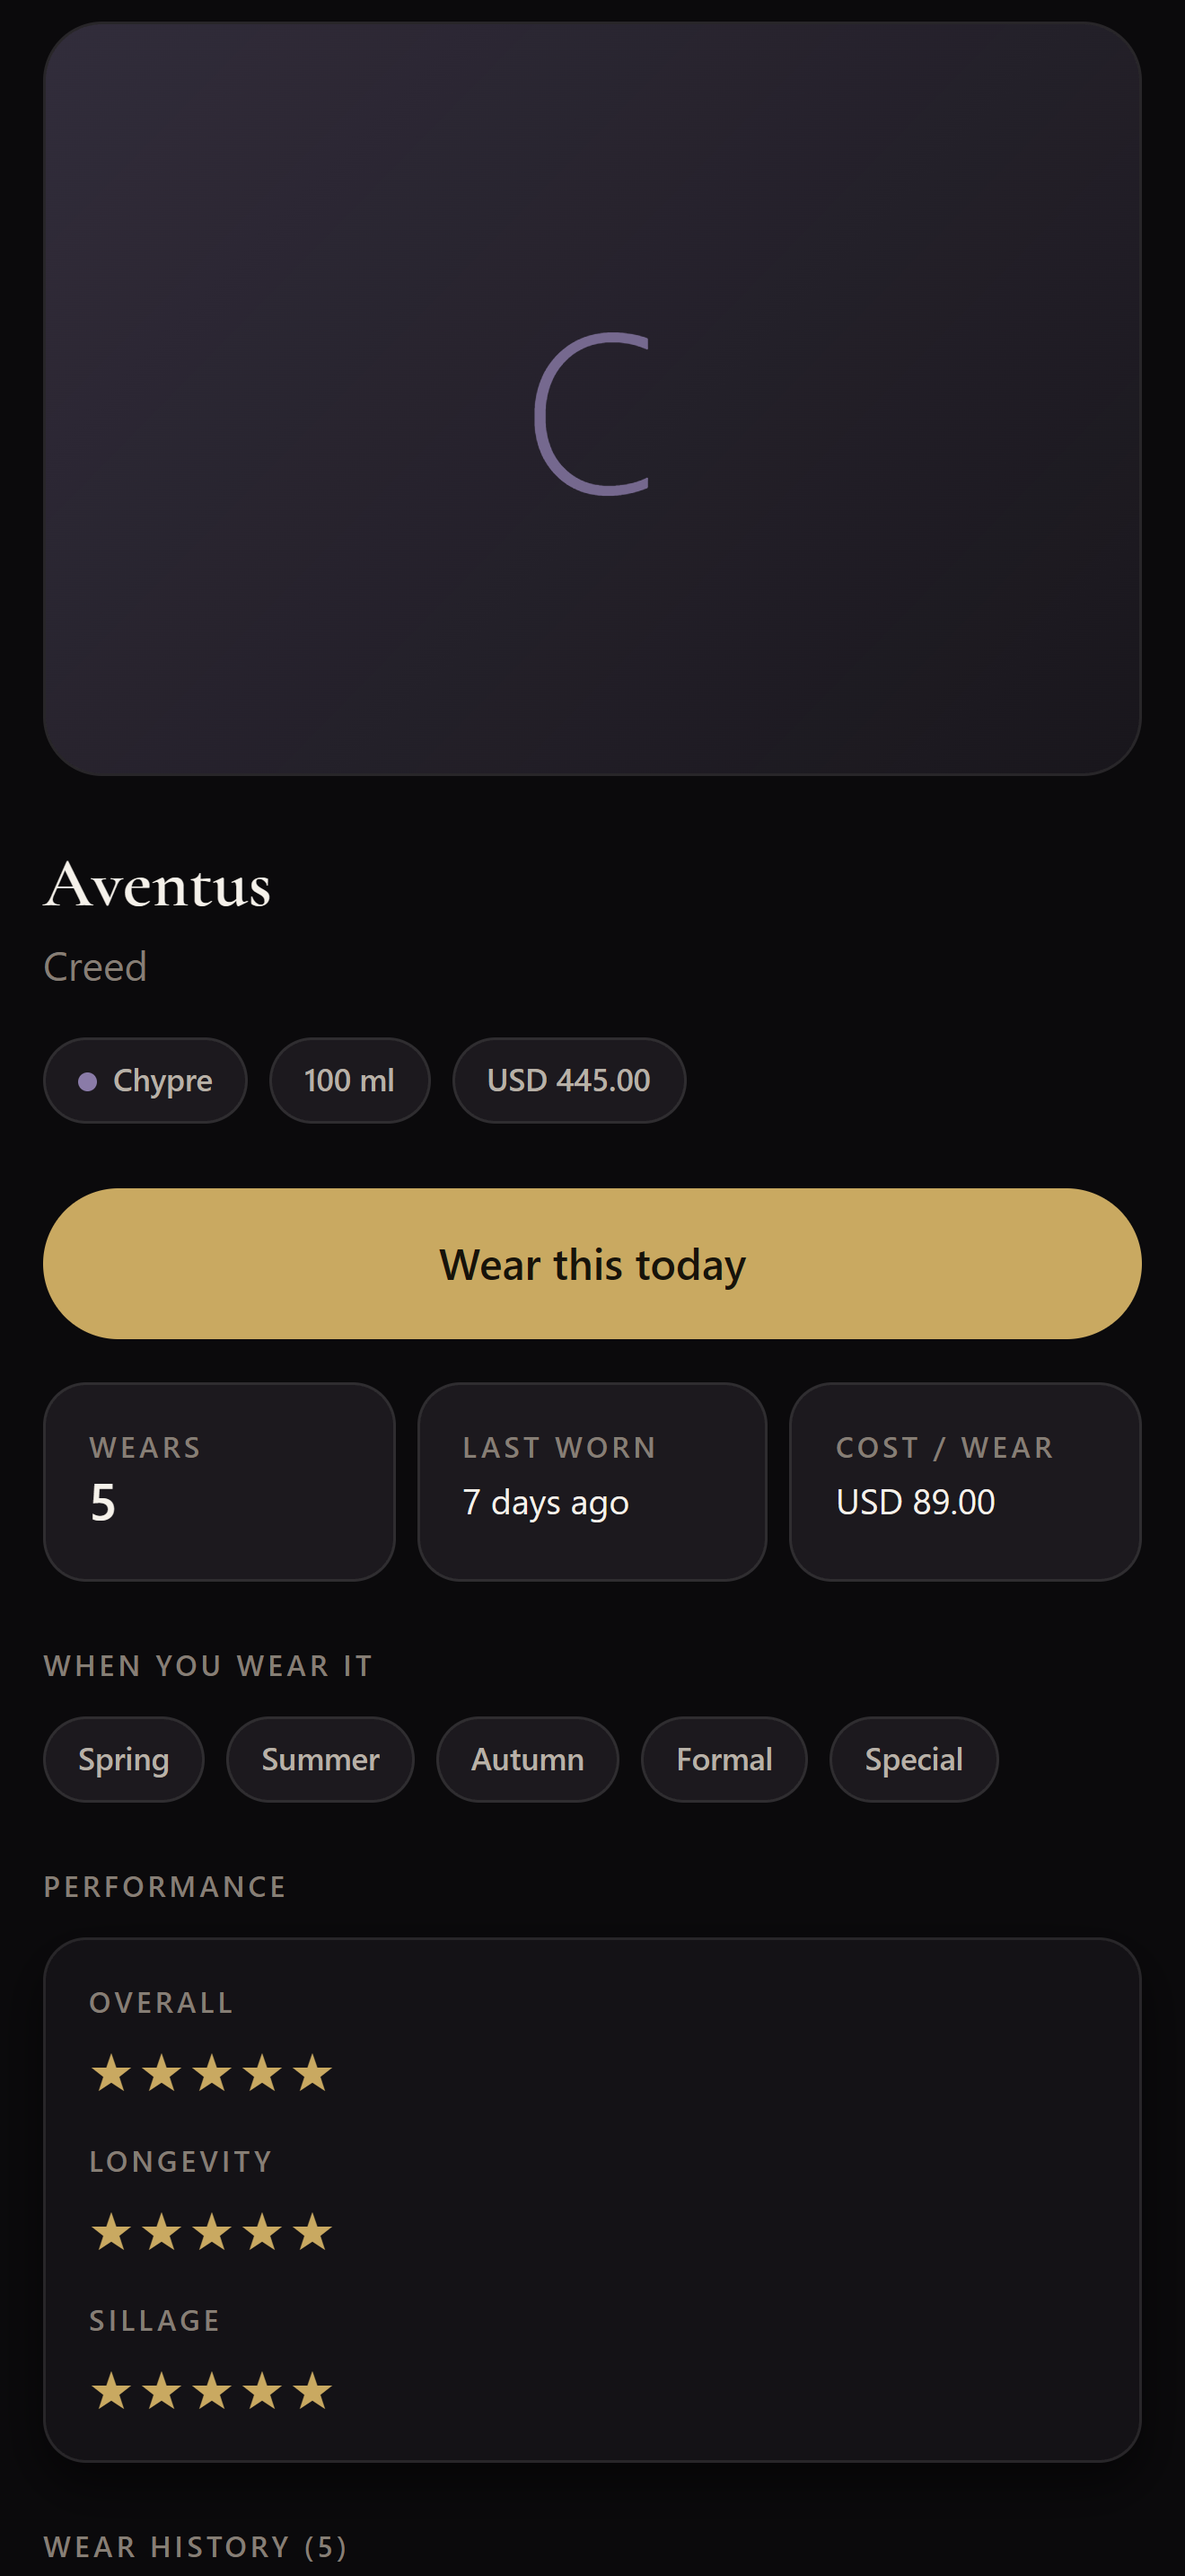
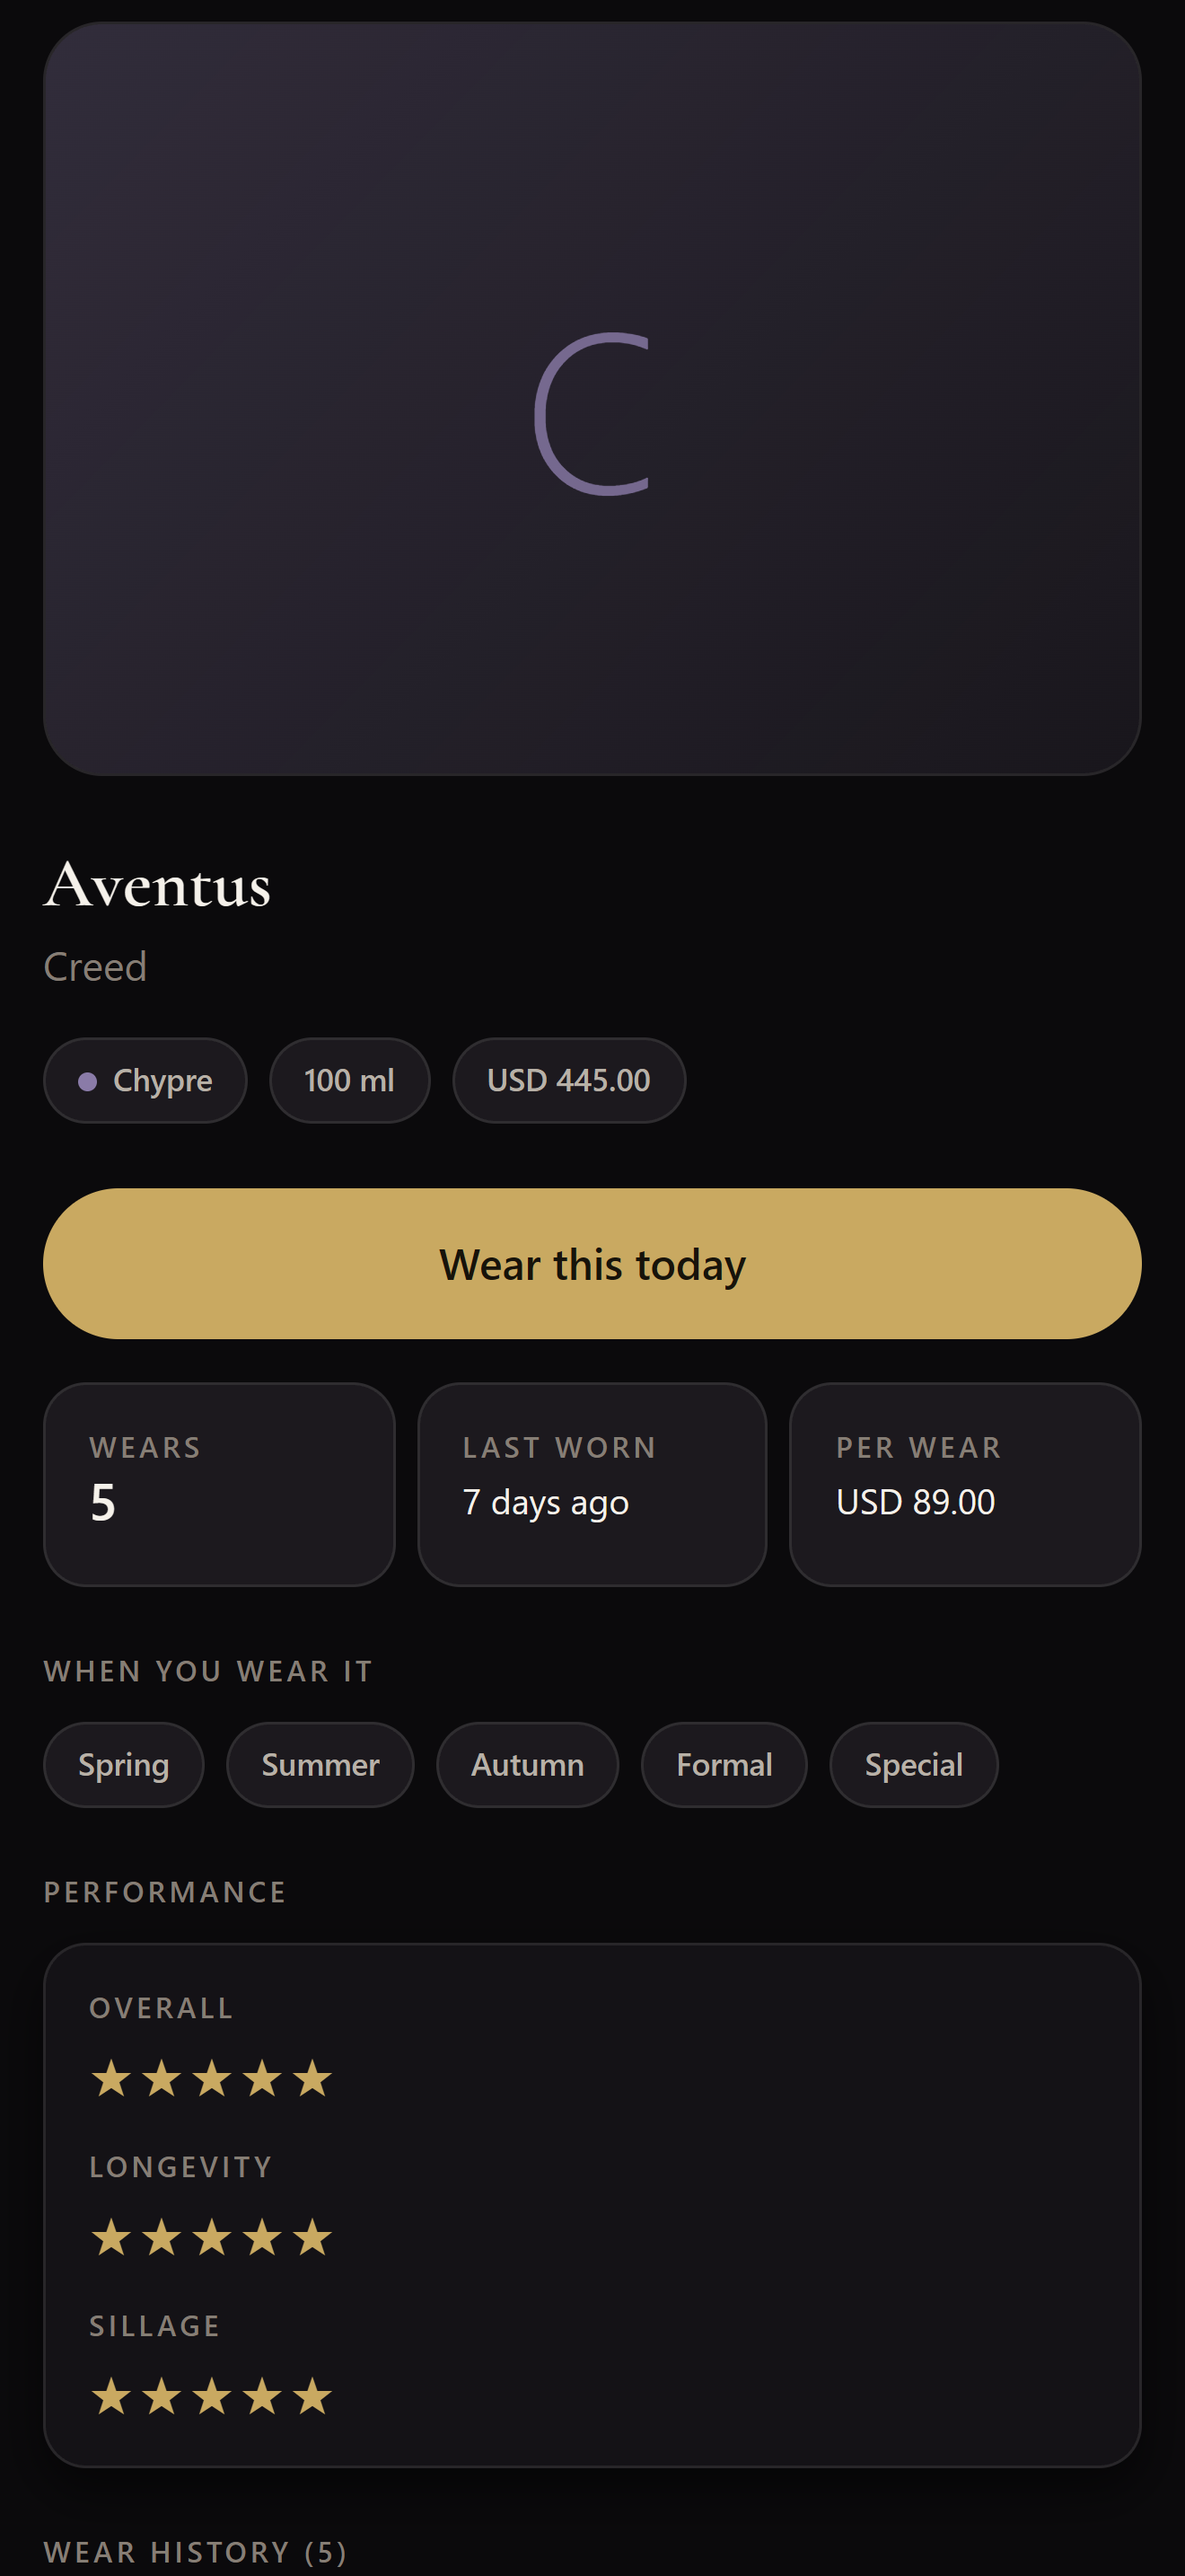
Scope RLS policies to the authenticated role; document accepted advisors
Policies were created without a TO clause, defaulting to `public` and so
including the `anon` role. That was already safe in practice — for `anon`,
auth.uid() is NULL, so the comparison denies the row — but relying on a
NULL comparison rather than an explicit grant is the wrong default. Named
the role on every policy across profiles, fragrances, sotd_entries,
settings, subscriptions and storage.objects.

Enabled HaveIBeenPwned leaked-password protection, which applies if a
user ever sets a password via the optional email upgrade.

The auth_allow_anonymous_sign_ins advisor still fires on every user
table, and correctly: an anonymously signed-in Supabase user holds the
`authenticated` role, so the warning describes the product working as
intended. The advisor suggests requiring is_anonymous = false, which
would lock every anonymous user out of their own collection and force an
email to use the app at all. Documented as accepted rather than silenced,
in store/security-checklist.md.

Re-verified: 18/18 RLS cross-user denial assertions still pass.

diff --git a/store/security-checklist.md b/store/security-checklist.md
@@ -20,8 +20,35 @@ Last run: 28 July 2026.
 | Client cannot self-grant premium | ✅ | `subscriptions` has a read policy and **no** write policy; B's insert rejected |
 | Billing ledger unreadable by clients | ✅ | RLS on, zero policies = deny-all |
 | Policies use `(select auth.uid())` | ✅ | Avoids per-row re-evaluation (`auth_rls_initplan` advisor) |
-| `SECURITY DEFINER` functions not publicly callable | ✅ | `EXECUTE` revoked from `public`/`anon`/`authenticated` on `handle_new_user` and `touch_updated_at`; advisor now clean |
-| Supabase security advisors clean | ✅ | Only one INFO: `billing_events` RLS-on-no-policy, which is the intended deny-all |
+| Policies scoped `TO authenticated` | ✅ | Explicit role grant rather than relying on `auth.uid()` being NULL for `anon` |
+| `SECURITY DEFINER` functions not publicly callable | ✅ | `EXECUTE` revoked from `public`/`anon`/`authenticated` on `handle_new_user` and `touch_updated_at`; advisor cleared |
+| Leaked-password protection (HaveIBeenPwned) | ✅ | Enabled; applies if a user ever sets a password on the optional email upgrade |
+
+### Advisor findings we accept, and why
+
+The Supabase security advisor is **not** silent, and this file will not pretend
+it is. Two findings remain, both deliberate:
+
+1. **`rls_enabled_no_policy` on `billing_events`** (INFO). RLS on with zero
+   policies is a deny-all in Postgres. Only the service-role webhook touches
+   this table. This is the intended posture, not an oversight.
+
+2. **`auth_allow_anonymous_sign_ins` on all six user tables** (WARN, ×7).
+   Flagged because anonymous users can reach their own rows — which is the
+   entire product. In Supabase an anonymously signed-in user holds the
+   **`authenticated`** role (with `is_anonymous: true` in the JWT), so this
+   warning persists even with policies scoped `TO authenticated`.
+
+   The advisor's suggested remediation is to add
+   `and (select auth.jwt() ->> 'is_anonymous')::boolean is false`, which would
+   lock every anonymous user out of their own collection and require an email to
+   use the app at all. That contradicts the anonymous-first requirement in the
+   brief, so we do not apply it.
+
+   **What actually protects the data is unchanged and proven:** each policy
+   still requires `auth.uid() = user_id`, so an anonymous user reaches their own
+   rows and nobody else's. `scripts/test-rls.js` demonstrates this with two real
+   anonymous users and 18 assertions.
 
 ## Storage
 

diff --git a/BUILD_LOG.md b/BUILD_LOG.md
@@ -194,8 +194,13 @@ network requests**. **53 passed, 0 failed.**
 - Deleting the auth rows cascaded every dependent row to zero across all five
   tables — the account-deletion path works.
 - Both Edge Functions reject unauthenticated calls (401) and wrong methods (405).
-- Supabase security advisors: clean, apart from one INFO for `billing_events`
-  having RLS on with no policies, which is the intended deny-all.
+- Supabase security advisors: two findings remain and both are deliberate —
+  `billing_events` has RLS on with no policies (a deny-all, by design), and
+  `auth_allow_anonymous_sign_ins` fires on every user table because anonymous
+  users can reach their own rows, which is the product. Applying the advisor's
+  suggested fix would require an email to use the app at all. Reasoning written
+  up in `store/security-checklist.md`; the protection itself
+  (`auth.uid() = user_id`) is unchanged and proven by the RLS test.
 - All four review URLs return 200 publicly, with no SSO wall.
 
 ### Visual
